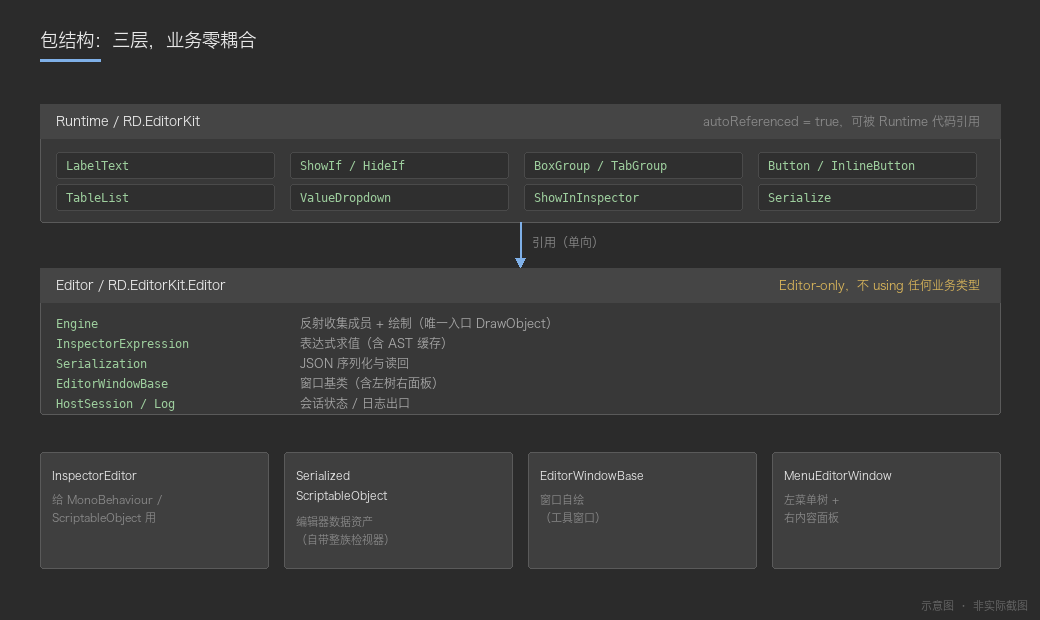
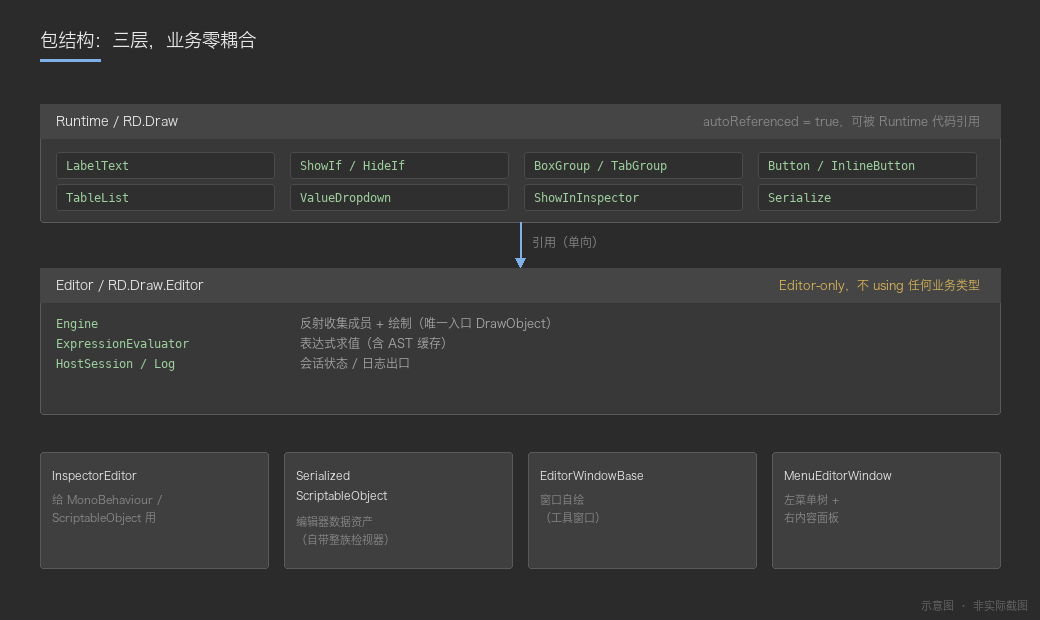
docs(cn.rendu.draw): 教程补宿主共享变更胶水与源码地图
- 第 11 章补 Engine.BeginChange/EndChange 共享胶水（作用域/回调两式），
  示例改用 BeginChange，手动回调降级为纯 C# 对象兜底
- 第 16.1 源码地图补后端一致性层（Renderer/Widget 树、
  ControlRenderer/RDTheme/LayoutPolicy/WidgetPool）及可见性提醒
- §3.6/§15.4 修正 HostSession 为内部会话、HostState 为公开句柄
- 第 10 章接入菜单树窗口示意图

docs(cn.rendu.draw): 重生成架构图并修正 README 文档路径

- generate_images.py：包名 RD.EditorKit -> RD.Draw、模块清单修正、
  docstring 路径 Documentation~ -> Docs
- 重生成 06-architecture.png（已无 EditorKit 残留）
- README.md：Documentation~ -> Docs 的图片/教程链接与目录树、接入示意图

diff --git a/Packages/cn.rendu.draw/Docs/generate_images.py b/Packages/cn.rendu.draw/Docs/generate_images.py
@@ -7,9 +7,9 @@
 
 用法:
     python3 -m venv .venv && .venv/bin/pip install Pillow
-    .venv/bin/python "Documentation~/generate_images.py"
+    .venv/bin/python "Docs/generate_images.py"
 
-输出: Documentation~/images/*.png
+输出: Docs/images/*.png
 """
 
 import os
@@ -482,7 +482,7 @@ def fig_architecture():
     # Runtime
     box(d, 40, 104, W - 80, 118, fill=PANEL, outline=BORDER)
     d.rectangle((40, 104, W - 40, 138), fill=BAR)
-    txt(d, 56, 121, "Runtime / RD.EditorKit", 14, TEXT, bold=True, anchor="lm")
+    txt(d, 56, 121, "Runtime / RD.Draw", 14, TEXT, bold=True, anchor="lm")
     txt(d, W - 60, 121, "autoReferenced = true，可被 Runtime 代码引用", 12, MUTED, anchor="rm")
     items = ["LabelText", "ShowIf / HideIf", "BoxGroup / TabGroup", "Button / InlineButton",
              "TableList", "ValueDropdown", "ShowInInspector", "Serialize"]
@@ -500,13 +500,11 @@ def fig_architecture():
     # Editor
     box(d, 40, 268, W - 80, 146, fill=PANEL, outline=BORDER)
     d.rectangle((40, 268, W - 40, 302), fill=BAR)
-    txt(d, 56, 285, "Editor / RD.EditorKit.Editor", 14, TEXT, bold=True, anchor="lm")
+    txt(d, 56, 285, "Editor / RD.Draw.Editor", 14, TEXT, bold=True, anchor="lm")
     txt(d, W - 60, 285, "Editor-only，不 using 任何业务类型", 12, WARN, anchor="rm")
     mods = [
         ("Engine", "反射收集成员 + 绘制（唯一入口 DrawObject）"),
-        ("InspectorExpression", "表达式求值（含 AST 缓存）"),
-        ("Serialization", "JSON 序列化与读回"),
-        ("EditorWindowBase", "窗口基类（含左树右面板）"),
+        ("ExpressionEvaluator", "表达式求值（含 AST 缓存）"),
         ("HostSession / Log", "会话状态 / 日志出口"),
     ]
     cy = 312

diff --git a/Packages/cn.rendu.draw/Docs/Tutorial.md b/Packages/cn.rendu.draw/Docs/Tutorial.md
@@ -24,7 +24,7 @@
 - [第 6 章 列表、表格、字典、下拉](#第-6-章-列表表格字典下拉)
 - [第 7 章 表达式系统（`@`）](#第-7-章-表达式系统)
 - [第 8 章 编辑器数据资产：SerializedScriptableObject](#第-8-章-编辑器数据资产inspectorserializedscriptableobject)
-- [第 9 章 工具窗口：EditorWindowBase](#第-9-章-工具窗口inspectoreditorwindow)
+- [第 9 章 工具窗口：DrawWindow](#第-9-章-工具窗口inspectoreditorwindow)
 - [第 10 章 菜单树窗口：做一个真正的工具](#第-10-章-菜单树窗口做一个真正的工具)
 - [第 11 章 自己写宿主：直接用 Engine.DrawObject](#第-11-章-自己写宿主直接用-inspectorenginedrawobject)
 - [第 12 章 综合实战：从零做一个关卡配置面板](#第-12-章-综合实战从零做一个关卡配置面板)
@@ -45,7 +45,7 @@
 |---|---|---|
 | `MonoBehaviour` / `ScriptableObject` | 继承 `InspectorEditor` + `[CustomEditor]`（**cn.rendu.inspector** 宿主包） | 替换某个组件原生检视器 |
 | 编辑器数据资产 | 继承 `SerializedScriptableObject`（**cn.rendu.serialization** 的 `RD.Serialization.Editor`；整族检视器登记在 cn.rendu.inspector） | 带 JSON 落盘的编辑器配置资产 |
-| `EditorWindow` 自身 | 继承 `EditorWindowBase`（**cn.rendu.edittool** 包） | 纯工具窗口（不必是 Unity 对象） |
+| `EditorWindow` 自身 | 继承 `DrawWindow`（**cn.rendu.edittool** 包） | 纯工具窗口（不必是 Unity 对象） |
 | **任意普通 C# 对象** | 继承 `MenuEditorWindow`（**cn.rendu.edittool** 包），或直接调 `Engine.DrawObject(obj, window)` | 工具窗口右半边的"模块面板" |
 
 最后一行是关键差异：**被画的对象不必是 `UnityEngine.Object`**。一个普通 `class LevelModule { [Button("执行")] void Run() {} }` 就能当面板内容，`[Button]` 照常出按钮。这是做编辑器工具时最省事的地方。
@@ -70,7 +70,7 @@
 | Runtime 代码（只用特性） | `RD.Draw` |
 | Editor 代码（直接用引擎） | `RD.Draw.Editor`（它已依赖 `RD.Draw`） |
 | 检视器（`InspectorEditor` / `SerializedScriptableObject`） | `RD.Inspector.Editor`（cn.rendu.inspector 包，它已依赖前两者） |
-| 工具窗口（`EditorWindowBase` / `MenuEditorWindow` / `MenuTree` / `EditorPrefsValue<T>`） | `RD.EditTool.Editor`（cn.rendu.edittool 包，它已依赖特性与引擎） |
+| 工具窗口（`DrawWindow` / `MenuEditorWindow` / `MenuTree`）；持久化用 cn.rendu.utilities 的 `PrefsValue<T>` | `RD.EditTool.Editor`（cn.rendu.edittool 包，它已依赖特性与引擎） |
 
 如果工程用 asmdef 组织，Editor 程序集的 `references` 里要加这两项。本仓库里的真实写法是 `Packages/cn.rendu.packagemanager/Editor/RD.PackageManager.Editor.asmdef`（只摘录关键字段）：
 
@@ -93,7 +93,7 @@
 | `RD.Draw.Editor`（cn.rendu.draw 的引擎程序集） | `Engine`、`ExpressionEvaluator`、`HostState`（`CreateHostState` 发的不透明句柄）、`Log`、`Icons` |
 | `RD.Serialization.Editor`（cn.rendu.serialization 序列化包） | 序列化内核 `Serialization` 与资产载体 `SerializedScriptableObject` |
 | `RD.Inspector.Editor`（cn.rendu.inspector 宿主包，程序集 `RD.Inspector.Editor`） | `InspectorEditor`，及 `SerializedScriptableObject` 的 `[CustomEditor]` 整族登记 |
-| `RD.EditTool.Editor`（cn.rendu.edittool 包） | `EditorWindowBase`、`MenuEditorWindow`、`MenuTree`、`EditorPrefsValue<T>` —— 注意是复数 `EditorWindows`：单数 `RD.EditTool` 会遮蔽 `UnityEditor.EditorWindow` 类型（坑同下） |
+| `RD.EditTool.Editor`（cn.rendu.edittool 包） | `DrawWindow`、`MenuEditorWindow`、`MenuTree`；持久化用 cn.rendu.utilities 的 `PrefsValue<T>` —— 注意是复数 `EditorWindows`：单数 `RD.EditTool` 会遮蔽 `UnityEditor.EditorWindow` 类型（坑同下） |
 | `RD.Utilities`（cn.rendu.utilities 通用工具包） | `CollectionExtensions`（`HashSet.AddRange`）、`ObjectExtensions.Clone<T>`（反射深拷）—— 零依赖，运行时可用 |
 
 > 坑：`InspectorEditor` 继承 `UnityEditor.Editor`。因为文件位于 `RD.Inspector.Editor` 命名空间内，**简单名 `Editor` 会被解析成命名空间 `RD.Inspector` 下的 `Editor`**，写 `: Editor` 报 CS0118。基类一定写全：`: InspectorEditor`（本包已提供），自己写别的基类时写 `: UnityEditor.Editor`。
@@ -367,7 +367,7 @@ public int Tint;
 
 - 组名字符串**必须一字不差**，`"战斗"` 与 `"战斗 "`（多个空格）是两个组；
 - 组内成员全部被条件藏起来时，组会消失（默认行为），如果你希望"空框还在"，把 `HideWhenChildrenAreInvisible = false`；
-- 展开状态存在会话对象 `HostSession` 里：**按"被绘制的对象 → 组路径 / 成员名"两级分桶**（`ConditionalWeakTable<object, ObjectState>` + 两个 `Dictionary<string,bool>`）。所以：
+- 展开状态存在会话里：`HostState` 是不透明句柄，`HostSession` 是内部会话，**按"被绘制的对象 → 组路径 / 成员名"两级分桶**（`ConditionalWeakTable<object, ObjectState>` + 两个 `Dictionary<string,bool>`）。所以：
   - 同窗口内两个同类型对象（或同一列表的两行元素）的折叠**互不影响**；
   - **两个窗口各自持有一个会话，状态不共享**（窗口 A 里展开的组，窗口 B 里还是默认状态）；
   - 会话不写盘、域重载后回到默认；对象被回收时它的状态桶自动释放。
@@ -991,7 +991,7 @@ protected override void OnAfterInspectorDeserialize()
 
 ---
 
-## 第 9 章 工具窗口：`EditorWindowBase`
+## 第 9 章 工具窗口：`DrawWindow`
 
 > **本章与第 10 章的内容已迁至独立包 `cn.rendu.edittool`**（程序集 `RD.EditTool.Editor`），见该包的 `README.md`。迁移后不变的承诺：
 >
@@ -1004,9 +1004,11 @@ protected override void OnAfterInspectorDeserialize()
 ## 第 10 章 菜单树窗口：做一个真正的工具
 
 > **已迁至 `cn.rendu.edittool`**。
-> `MenuEditorWindow` 的"左树 + 右面板"、`MenuTree` 的建树规则（路径自动补齐、同名就地替换、深度优先遍历、选中事件）与 `EditorPrefsValue<T>` 都在 `cn.rendu.edittool`，行为契约由随包迁移的 `MenuTreeTests`（14 例）钉住。
+> `MenuEditorWindow` 的"左树 + 右面板"、`MenuTree` 的建树规则（路径自动补齐、同名就地替换、深度优先遍历、选中事件）与 `PrefsValue<T>`（cn.rendu.utilities）都在各自包，行为契约由随包迁移的 `MenuTreeTests`（14 例）钉住。
 >
 > 本仓库的成熟用法仍可对照阅读：`Packages/cn.rendu.ui/Editor/UITool/Window/UITool.cs`。
+
+![菜单树窗口：左树 + 右面板](images/07-menu-window.png)
 
 ---
 
@@ -1029,9 +1031,35 @@ public static void DrawObject(object target,
 | `onBeforeChange` | 数据**即将写入前**回调 → 宿主在此拍 Undo 快照 |
 | `onChanged` | 数据**已修改后**回调 → 宿主标记脏、登记 prefab override、请求重绘 |
 
-### 11.2 宿主必须自己承担的三件事
+> 另有接收 `HostState`（来自 `CreateHostState()`，跨多次 `DrawObject` 保活折叠/滚动状态）与自定义 `Driver`（换肤/自绘控件）的重载；以及第 11.2 节的引擎共享变更胶水 `BeginChange` / `EndChange` 可替代这两个回调。
 
-反思一下 `InspectorEditor` 做了什么，你自建宿主就得做同样的事：
+### 11.2 推荐：用引擎共享变更胶水 `BeginChange` / `EndChange`
+
+`DrawObject` 暴露的 `onBeforeChange` / `onChanged` 回调只是"你能插手"的口子；真正拍 `Undo`、标脏、`RecordPrefabInstancePropertyModifications`、`Repaint` 的逻辑，引擎已经统一封装在 `Engine.BeginChange` / `Engine.EndChange` 里（`Editor/Api/Engine.cs`）。`cn.rendu.inspector` 的 `InspectorEditor` 内部就是委托这套胶水处理的——自建宿主直接复用即可，不必再手写一遍。
+
+两种等价写法：
+
+- **作用域风格（推荐）**：在 `using (Engine.BeginChange(target)) { ... 改字段 ... }` 内做修改。`ChangeScope` 在构造时拍 `Undo.RecordObject(target)`，在 `Dispose` 时标脏 + 登记 prefab override + `Repaint`。
+
+  ```csharp
+  using (Engine.BeginChange(target))
+  {
+      module.SomeField = newValue;
+  }
+  ```
+
+- **回调风格**：对单点变更调用 `Engine.EndChange(target)`，效果与作用域 `Dispose` 一致。
+
+  ```csharp
+  module.SomeField = newValue;
+  Engine.EndChange(target);
+  ```
+
+> 注意：`BeginChange` / `EndChange` 只对 **`UnityEngine.Object`** 自动管 Undo / 脏标记 / 重绘。**纯 C# 对象（非 `UnityEngine.Object`）引擎不自动处理**——这类宿主仍要走下面的手动回调（11.3）。
+
+### 11.3 宿主兜底：纯 C# 对象仍需手动回调
+
+反思一下 `InspectorEditor` 做了什么，你自建宿主对 `UnityEngine.Object` 可交给 11.2 的胶水；但若面板画的是**纯 C# 对象**，就得自己承担下面三件事：
 
 ```csharp
 private void OnBeforeChange(object owner) => Undo.RecordObject(target, "Inspector");
@@ -1049,7 +1077,7 @@ private void OnChanged(object owner)
 
 **漏掉 `onChanged` 的后果：改动不落盘**（面板上看着变了，磁盘上没变，切场景就没了）。另外注意注释里那条经验：用 `Editor.target`（序列化根）而不是引擎回传的 `owner` 去 Undo / SetDirty —— `owner` 可能是组件内部的普通 C# 对象，对它做 Undo 不起作用。
 
-### 11.3 示例：在原生检视器里嵌一块本包面板
+### 11.4 示例：在原生检视器里嵌一块本包面板
 
 ```csharp
 [CustomEditor(typeof(LevelRoot))]
@@ -1063,16 +1091,17 @@ public class LevelRootEditor : UnityEditor.Editor
         EditorGUILayout.Space();
         EditorGUILayout.LabelField("关卡模块", EditorStyles.boldLabel);
 
-        EditorGUI.BeginChangeCheck();
-        Engine.DrawObject(root.Module, null, o => Undo.RecordObject(target, "Module"), o =>
+        // 推荐：用引擎共享胶水。BeginChange 在作用域内为 target 拍 Undo，
+        // DrawObject 内对 root.Module 的改动在作用域结束时自动标脏 + 重绘。
+        using (Engine.BeginChange(target))
         {
-            EditorUtility.SetDirty(target);
-            Repaint();
-        });
-        if (EditorGUI.EndChangeCheck()) Repaint();
+            Engine.DrawObject(root.Module, null);
+        }
     }
 }
 ```
+
+> 旧写法（手动 `onBeforeChange` / `onChanged` 回调，或外层套 `EditorGUI.BeginChangeCheck` / `EndChangeCheck`）依然有效，只是对 `UnityEngine.Object` 宿主已不必再写。面板对象若是纯 C# 对象，请退回 11.3 的手动回调。
 
 ### 11.4 什么时候值得这么做
 
@@ -1324,9 +1353,9 @@ public class LevelConfigEditor : InspectorEditor { }
 | 提示 / 两段式提示 / 标题 | `[InfoBox]` / `[DetailedInfoBox]`（不是可展开控件，见 2.6）/ `[Title]` |
 | 编辑器数据资产 | 继承 `SerializedScriptableObject` + `[Serialize]` |
 | 组件检视器 | 继承 `InspectorEditor` + `[CustomEditor]` |
-| 工具窗口 | 继承 `EditorWindowBase`（cn.rendu.edittool） |
+| 工具窗口 | 继承 `DrawWindow`（cn.rendu.edittool） |
 | 左树右面板工具 | 继承 `MenuEditorWindow`（cn.rendu.edittool）+ `BuildMenuTree()` |
-| 持久化上次选项/窗口宽度 | `EditorPrefsValue<T>`（cn.rendu.edittool） |
+| 持久化上次选项/窗口宽度 | `PrefsValue<T>`（cn.rendu.utilities） |
 | 图标枚举 → Texture | `Icons.FromSdf(SdfIconType.X)`（只映射少数字形族，其余返回 `null`） |
 
 ---
@@ -1365,7 +1394,7 @@ public class LevelConfigEditor : InspectorEditor { }
 - 不显示 prefab override 标记，也无法右键还原单个属性；
 - `[Flags]` 枚举只能单选；
 - 成员清单/分组树/反射查找条件/AST 都是**按类型缓存**的，靠域重载刷新；
-- `HostSession` 承担折叠与滚动状态（宿主弱引用分桶，宿主回收即释放，不写盘）。
+- `HostState` 是不透明句柄，`HostSession` 是内部会话（宿主弱引用分桶，宿主回收即释放，不写盘）承担折叠与滚动状态；作者拿到的是 `HostState`。
 
 ---
 
@@ -1374,8 +1403,12 @@ public class LevelConfigEditor : InspectorEditor { }
 ### 16.1 源码地图
 
 - **特性定义**：`Runtime/Attributes/`（纯数据，加特性先看这里；按 Conditions / Constraints / Appearance / Collections 分语义）；
-- **门面**：`Editor/Api/Engine.cs` —— 只有 `DrawObject`（画）、`CreateHostState`（状态句柄）、`SetDiagnosticSink`（诊断接管）三个入口，其余一概不代理；
-- **编排与绘制**：`Editor/Rendering/` —— `InspectorRenderer`（组合根 + 递归遍历）、`MemberRenderChain`（这个成员由谁画）、`ValueControlChain`（这个值用哪个控件）、`DrawChain`（两条链的共同机制）；
+- **门面**：`Editor/Api/Engine.cs` —— 绘制入口 `DrawObject`、状态句柄 `CreateHostState`、诊断接管 `SetDiagnosticSink`，以及变更胶水 `BeginChange` / `EndChange`（统一封装 Undo / 标脏 / prefab override / 重绘，详见第 11 章）；其余一概不代理；
+- **编排与绘制（后端一致性重构后的两层）**：`Editor/Rendering/` 与 `Editor/Widgets/` —— 顶层 **`Renderer`**（单解释器，`public sealed`，`Render(Widget, RenderContext)` 为 `internal`）把 `DrawObject` 的输入递归解释成 **`Widget` 控件树**（抽象基类 `internal`，含 `ControlWidget` / `RootWidget`）；`InspectorRenderer`（组合根 + 递归遍历成员）据此驱动 `MemberRenderChain`（这个成员由谁画）/ `ValueControlChain`（这个值用哪个控件）/ `DrawChain`（两条链的共同机制）。
+  - 自绘控件：`ControlRenderer`（`internal`，实现 `IControlRenderer`，自绘 Toggle / Slider / Toolbar，否则回退 `DriverControlRenderer`）；
+  - 度量与布局：`RDTheme`（`internal static`，颜色/度量常量）、`LayoutPolicy`（`internal static`，各控件布局策略）；
+  - 对象池：`WidgetPool`（`internal static`）。
+  - 可见性提醒：除 `Renderer` 类本身为 `public` 外，`Widget` / `IControlRenderer` / `RDTheme` / `LayoutPolicy` / `ControlRenderer` / `WidgetPool` 当前均为 `internal`，`Renderer.Render` 也是 `internal`——它们不是供外部继承的公开扩展点（详见 `BackendConsistencyDesign.md`）。
 - **规则（纯判定，不碰 UI）**：`Editor/Rules/` —— `VisibilityEvaluator`（显隐/启禁）、`GroupResolver`（分组树）、`ValueAccessor`（取值与成员查找）、`ValueOps`（真值/数值/容差相等）；
 - **元数据与缓存**：`Editor/Metadata/` —— `MemberCollector`（成员发现与排序）、`CachedMember`、`EnumCatalog`；
 - **表格**：`Editor/Tables/` —— `TableSchema`（列结构推导）、`TableRenderer`（分页/横向滚动/单元格嵌套）；

diff --git a/Packages/cn.rendu.draw/README.md b/Packages/cn.rendu.draw/README.md
@@ -9,12 +9,12 @@
 
 > 引擎之上分三层，都只依赖本包：**cn.rendu.serialization**（序列化层：`SerializedScriptableObject` / `Serialization`）、**cn.rendu.inspector**（检视器宿主：`InspectorEditor` 与资产载体整族的 `[CustomEditor]` 登记）、**cn.rendu.edittool**（工具窗口宿主：`MenuEditorWindow` 等）。两个宿主并列，互不依赖；序列化层同样可被任宿主单独引用。本包程序集名是 `RD.Draw` / `RD.Draw.Editor`；检视器宿主包 cn.rendu.inspector 的程序集是 `RD.Inspector.Editor`（命名空间同名，没跟着改）。
 
-> **第一次使用请先看教程**：[`Documentation~/Tutorial.md`](Documentation~/Tutorial.md) —— 从零接入、到写出自己的工具窗口，按步骤走并有排错手册；本文件是特性手册，适合查阅。
+> **第一次使用请先看教程**：[`Docs/Tutorial.md`](Docs/Tutorial.md) —— 从零接入、到写出自己的工具窗口，按步骤走并有排错手册；本文件是特性手册，适合查阅。
 >
 > 设计取向：特性名与用法贴近主流检视器的习惯（便于迁移），但**零第三方依赖**（纯 C# + Unity API）。
 > 文档里每个特性的"生效情况"都是照引擎源码逐项核对过的实测结论，不是照抄别处文档 —— 哪些参数当前没读取，下文都明确标出。
 
-![检视器面板：一个类能画成什么样子](Documentation~/images/01-overview.png)
+![检视器面板：一个类能画成什么样子](Docs/images/01-overview.png)
 
 *图 1：同一个类里的字段、分组、按钮、表格 —— 引擎按特性把它们画出来（示意图，非截图）。*
 
@@ -44,7 +44,7 @@
 cn.rendu.draw/
 ├── package.json                     包元信息（name / displayName / version）
 ├── README.md                        本文件（特性手册）
-├── Documentation~/                  文档资源（Unity 不导入 `~` 结尾的目录）
+├── Docs/                            文档资源（Tutorial、架构设计、示意图）
 │   ├── Tutorial.md                  使用教程（怎么用：第 13 章排错、第 14 章选型）
 │   ├── images/                      文档配图
 │   └── generate_images.py           生成这些配图的脚本
@@ -181,7 +181,7 @@ cn.rendu.draw/
 | `RD.Draw.Editor` | `RD.Draw` | **Editor-only**。全包没有任何 `[MenuItem]`，也没有任何 `[CustomEditor]`（检视器宿主在 cn.rendu.inspector 包）：画什么、入口在哪，全部由使用方决定 |
 | `RD.Draw.Tests.Editor` | 前两者 | 仅测试用；通过 `InternalsVisibleTo` 访问引擎的 internal 元数据 |
 
-> 结论：**Runtime 代码只需要引用 `RD.Draw`**（用特性）；**写自定义宿主的 Editor 代码要引用 `RD.Draw.Editor`**（引擎）；引擎之上分三层，引包即用 —— 序列化 **cn.rendu.serialization**（程序集 `RD.Serialization.Editor`）、检视器宿主 **cn.rendu.inspector**（程序集 `RD.Inspector.Editor`）、工具窗口宿主 **cn.rendu.edittool**（`EditorWindowBase` / `MenuEditorWindow` / `MenuTree` / `EditorPrefsValue<T>`）。后两者并列，互不依赖。
+> 结论：**Runtime 代码只需要引用 `RD.Draw`**（用特性）；**写自定义宿主的 Editor 代码要引用 `RD.Draw.Editor`**（引擎）；引擎之上分三层，引包即用 —— 序列化 **cn.rendu.serialization**（程序集 `RD.Serialization.Editor`）、检视器宿主 **cn.rendu.inspector**（程序集 `RD.Inspector.Editor`）、工具窗口宿主 **cn.rendu.edittool**（`DrawWindow` / `MenuEditorWindow` / `MenuTree`）；持久化用 cn.rendu.utilities 的 `PrefsValue<T>`）。后两者并列，互不依赖。
 > 如果工程用 asmdef 组织代码，Editor 目录可以通过 **Assembly Definition Reference（`.asmref`）** 归并进自己的 Editor 程序集，从而天然拥有这些能力。
 
 ### Components 层（组合控件）
@@ -199,7 +199,7 @@ cn.rendu.draw/
 
 独立弹窗（类型选择器）**不在这一层**：它们在 `Editor/Selectors/`，自带 `EditorWindow`、独立窗口、不经过绘制后端 —— 那层的规则只有一条：只碰公开契约与 Unity 编辑器 API，不碰引擎内部、不掺业务语义。
 
-![包结构：三层，业务零耦合](Documentation~/images/06-architecture.png)
+![包结构：三层，业务零耦合](Docs/images/06-architecture.png)
 
 *图 2：Runtime 只放特性；Editor 放引擎与引擎之上的组合控件（宿主在另外两个包）；业务类型永远不出现在这套包里。*
 
@@ -259,7 +259,7 @@ public class MyEditorAsset : SerializedScriptableObject
 
 ### 2.3 编辑器窗口
 
-窗口宿主已迁至独立包 **`cn.rendu.edittool`**（程序集 `RD.EditTool.Editor`，命名空间 `RD.EditTool.Editor`）：`EditorWindowBase`、`MenuEditorWindow`、`MenuTree`、`EditorPrefsValue<T>`。
+窗口宿主已迁至独立包 **`cn.rendu.edittool`**（程序集 `RD.EditTool.Editor`，命名空间 `RD.EditTool.Editor`）：`DrawWindow`、`MenuEditorWindow`、`MenuTree`；持久化用 cn.rendu.utilities 的 `PrefsValue<T>`。
 
 - 窗口包引用 `RD.Draw` / `RD.Draw.Editor`，用 `Engine.DrawObject` 绘制窗口自身与右侧面板；
 - 跨程序集宿主各持独立会话的入口：`Engine.CreateHostState()` 创建不透明状态句柄，绘制时传 `DrawObject(target, host, onBeforeChange, onChanged, state)`，各窗口的折叠 / 滚动状态互不串台；
@@ -334,7 +334,7 @@ public void OnGUI()
 - 引擎有深度上限与环检测（"正在绘制"集合 + parent 判定），自引用 / 循环引用会被剪断；**绘制侧上限 `Engine.MaxDepth = 24`**（序列化侧是 32，见第 6 节）；
 - 折叠（展开）状态存在会话里（`HostSession`，成员状态按宿主对象弱引用分桶），域重载后回到默认展开。
 
-![成员可见性规则](Documentation~/images/02-visibility-rules.png)
+![成员可见性规则](Docs/images/02-visibility-rules.png)
 
 *图 3：字段 / 属性 / 方法各自的"画与不画"判定（示意图）。*
 
@@ -386,7 +386,7 @@ public void OnGUI()
 | `[TitleGroup("名字")]` | `Alignment`、`HorizontalLine`、`BoldTitle` | 带横线的大标题分组 | 生效（`IndentChildren` 未读取）。`Alignment`：`Left`/`Centered`/`Right` 生效；分组没有副标题，`Split` 退化为 `Left` |
 | `[TabGroup("页签名")]` | — | 页签分组 | **降级实现**：引擎当前把它当作垂直组绘制（源码注释原话："页签分组暂按垂直组降级"） |
 
-![六种分组容器的样子](Documentation~/images/03-groups.png)
+![六种分组容器的样子](Docs/images/03-groups.png)
 
 *图 4：分组特性的实际视觉效果；注意 `TabGroup` 当前是垂直组降级（示意图）。*
 
@@ -415,7 +415,7 @@ public void OnGUI()
 - 无参方法也可以（引擎按"无参方法"取值）；
 - `[ShowIf].Animate` 参数当前**未读取**（不校验、不报错，只是没有动画）。
 
-![条件显隐与启禁的四种写法](Documentation~/images/04-conditions.png)
+![条件显隐与启禁的四种写法](Docs/images/04-conditions.png)
 
 *图 5：`ShowIf` / `HideIf` / `EnableIf` / `DisableIf` 在条件成立与不成立时的表现（示意图）。*
 
@@ -511,7 +511,7 @@ private IEnumerable GetTeamSelectList()
 
 **判定规则：字符串以 `@` 开头才算表达式**（`ExpressionEvaluator.IsExpression`）。不带 `@` 的参数一律按"成员名 / 方法名"反射处理。
 
-![表达式求值管线](Documentation~/images/05-expressions.png)
+![表达式求值管线](Docs/images/05-expressions.png)
 
 *图 6：从特性里的字符串到布尔结果 —— 解析只做一次，求值每次都重读数据（示意图）。*
 
@@ -594,7 +594,7 @@ private IEnumerable GetTeamSelectList()
 
 > 本节内容（`SerializedScriptableObject` 与序列化器 `Serialization`）在独立的序列化包 **cn.rendu.serialization** 的 `Editor/`（程序集 `RD.Serialization.Editor`）。要点回顾：
 
-- 普通字段走 Unity 原生序列化；`[Serialize]`标记的与 public / `[SerializeField]` 的**复杂成员**（Dictionary、嵌套 POCO、HashSet 等）走 `EditorJsonUtility` JSON 落盘，存进同一个 asset；
+- 普通字段走 Unity 原生序列化；`[Serialize]`标记的与 public / `[SerializeField]` 的**复杂成员**（Dictionary、嵌套 POCO、HashSet 等）走 cn.rendu.serialization 的 JSON 序列化内核落盘，存进同一个 asset；
 - 继承族自带检视器（整族登记在 cn.rendu.inspector），子类无需再登记；
 - 行为契约由 cn.rendu.serialization 的 `SerializationTests`（19 例）钉住；"Unity 属性包类型（曲线/渐变）"的判定 `Engine.IsUnityValueBagType` 留在本包引擎侧（绘制与序列化共用同一条规则，全仓一份实现）。
 
@@ -602,9 +602,11 @@ private IEnumerable GetTeamSelectList()
 
 ## 7. 编辑器窗口与菜单树（已迁出）
 
-`EditorWindowBase` / `MenuEditorWindow` / `MenuTree` / `EditorPrefsValue<T>` 已迁至独立包 **`cn.rendu.edittool`**（命名空间 `RD.EditTool.Editor`，详见该包 README）；菜单树建树规则（路径自动补齐、同名就地替换、深度优先遍历、选中事件）的行为契约也随包迁移（`MenuTreeTests`，14 例）。
+`DrawWindow` / `MenuEditorWindow` / `MenuTree` 在 **`cn.rendu.edittool`**，持久化用 cn.rendu.utilities 的 `PrefsValue<T>`（命名空间 `RD.EditTool.Editor`，详见该包 README）；菜单树建树规则（路径自动补齐、同名就地替换、深度优先遍历、选中事件）的行为契约也随包迁移（`MenuTreeTests`，14 例）。
 
 引擎侧不变的承诺：`Engine.DrawObject` 仍接受 `EditorWindow host`（传窗口实例表示窗口自绘），窗口包的右侧面板就是用它绘制任意普通 C# 对象 —— **任何 `class` 都能直接当面板内容**，`[Button]` 照常出按钮。
+
+![菜单树窗口：左树 + 右面板](Docs/images/07-menu-window.png)
 
 ---
 
@@ -720,7 +722,7 @@ public class SerializedScriptableObjectEditor : InspectorEditor { }
 - 条件里的成员名解析不到（写错名字）时的语义是**视为可见**（宁可不隐藏，也不因一个拼错的名字把成员整片吞掉），并在首次遇到时记一条 `WarnOnce` 点出"哪个类型、哪个名字没解析到" —— 这条路径以前是完全静默的：成员一直显示，谁也想不到是名字写错了；
 - 引擎按类型缓存成员与分组树，**新增成员后需要等域重载**（改动代码本来就会触发编译）；
 - 绘制热路径上的重复工作都有缓存，**稳态零分配**：成员清单、分组树（含每个节点的混排条目，见 `GroupNode.Entries`）、表格列结构（按元素类型缓存；列宽是"这次绘制"的结果，绘制期用浅拷贝，不写回缓存）之外，还包括"每个成员按特性类型筛选出的特性数组"（`CachedMember.GetAttrs<T>`）、标题 / 分组头 / `DisplayAsString` 的 `GUIStyle`（按锚点×加粗分档缓存）、按钮 / 工具栏 / emoji 的 `GUIContent`（按按钮规格、labels 数组引用、贴图缓存；立即模式单线程复用）、按钮的 `GUILayoutOption` 数组（按宽 / 高 / 是否撑宽缓存）、枚举下拉的标签数组 / `[Flags]` 判定与位掩码（按枚举类型缓存）、成员标签的 `FriendlyName` 记忆化与计数文案、行号文案（`IndexText`，缓到 #511）、`[Required]` 值类型的默认值（按类型缓存）、`[ValueDropdown]` 候选项的 `Text`/`Value` 访问器（按候选项类型缓存）、"`(类型, 名字, 形参个数) → 无参方法 / 字段 / 属性`"的反射查找结果（引擎与表达式求值器共用同一份解析规则与缓存），以及表达式的 AST 与索引器元数据（见 §5.5）。同一个成员每帧只反射读一次值（`[Required]` 校验与渲染链共用这一次结果）。缓存同样活到域重载，所以上面那条"靠域重载生效"对它们一并适用；
-- 折叠状态、滚动位置是会话内缓存（不写盘；窗口的菜单宽度、上次选中项要持久化请用 cn.rendu.edittool 的 `EditorPrefsValue<T>`）；
+- 折叠状态、滚动位置是会话内缓存（不写盘；窗口的菜单宽度、上次选中项要持久化请用 cn.rendu.utilities 的 `PrefsValue<T>`）；
 - 表达式**已支持索引器**（`@Items[0]`、`@Map['key']`、`@Child.Items[1]`，调用结果后也能接，如 `@GetScaled(2)[1]`）：覆盖数组 / 字符串 / `List<T>` / `Dictionary<K,V>` 与自定义 `this[...]` 索引器；**越界或键缺失返回 `null`**，不会中断整段绘制。仍不支持位运算与自增自减；
 - 表达式解析会校验收尾：写了一半的表达式（如 `@Items[0`）整体返回 `null`，而不是被静默截断成一个错值；
 - 表达式里的数字字面量一律是 `double`；方法调用（`InvokeRaw`）会先按形参类型显式收窄，因此 **`@Foo(1, 2)` 可以调用 `Foo(int, int)`**，`Foo(SomeEnum)` 也能接收整数字面量。收窄只覆盖数值与枚举形参，其余类型原样交给反射 binder；
@@ -787,12 +789,12 @@ public class EnemyConfig : MonoBehaviour
 
 ### 11.2 纯工具窗口
 
-> 基类 `EditorWindowBase` 已迁至 **cn.rendu.edittool**（命名空间 `RD.EditTool.Editor`）；示例里演示的特性与引擎行为不变。
+> 基类 `DrawWindow` 已迁至 **cn.rendu.edittool**（命名空间 `RD.EditTool.Editor`）；示例里演示的特性与引擎行为不变。
 
 ```csharp
-using RD.EditTool.Editor;          // EditorWindowBase 所在包
+using RD.EditTool.Editor;          // DrawWindow 所在包
 
-public class MyToolWindow : EditorWindowBase
+public class MyToolWindow : DrawWindow
 {
     [Button("打开文档", 30, Icon = SdfIconType.Info)]   // Icon 只有部分字形有映射, 见 §11.2
     [PropertyOrder(-99999)]
